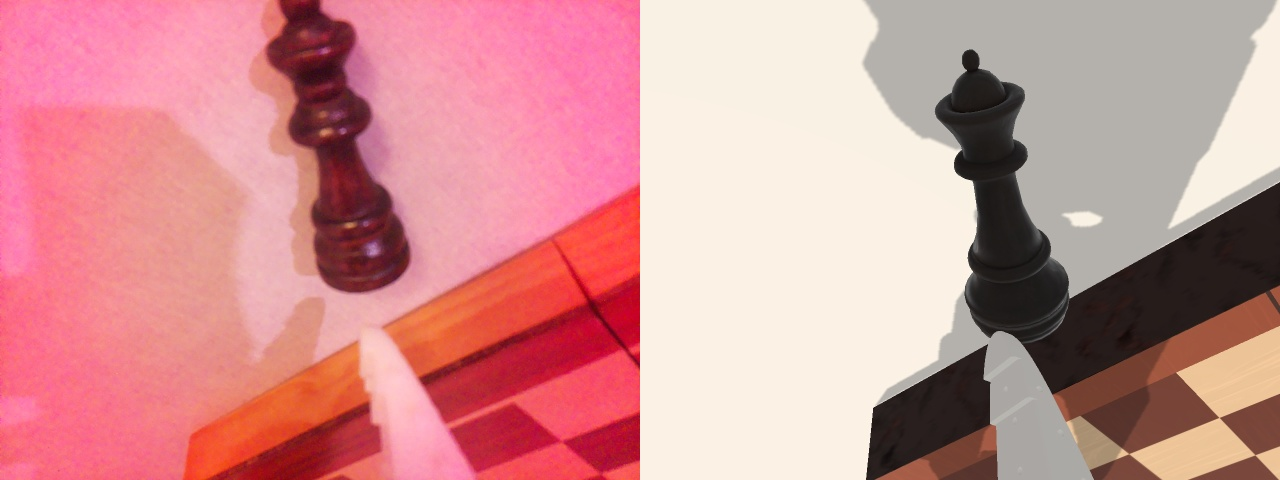
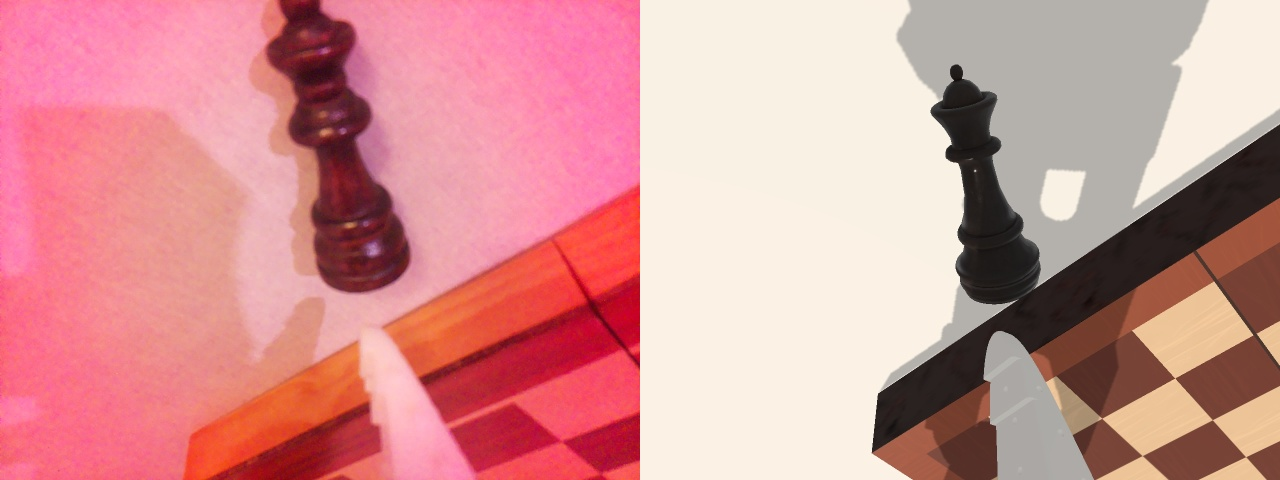
Bend so101-real's links under load instead of ramping a shoulder error
The readings now hide a bending of the shoulder and elbow links, 8°/N·m of
the torque each joint passes on to its link (gravity beyond it plus outside
contacts), on top of the offsets the camera calibration fitted. Resting on
the table unbends the arm, so B, C and Q's real readings put the jaw on the
table and near the queen's base, and lifting off from C gains far less than
the readings say. Friction does not bend the link, so a goal step at rest
still leaves the reading alone. D's free-air height stays 4 cm off: it has
about the calibration poses' torque, which FIDELITY.md explains.

Changed region(s): [[0.6562, 0.0, 1.0, 1.0], [0.6562, 0.7812, 0.7812, 1.0]]

diff --git a/examples/so101-real/servo.ts b/examples/so101-real/servo.ts
@@ -2,10 +2,12 @@
 //
 // - Readings and goals in LeRobot units: degrees (0 = middle of the calibrated range) for the arm,
 //   0..100 for the gripper, quantised to one raw step, goals clamped to the calibrated range.
-// - The readings carry a hidden, pose-dependent zero error (`Calibration`): true angle = reading +
-//   error(reading). The policy never sees true angles.
-// - P-only position control, torque = K·(goal − present) capped at the torque limit, K set by
-//   the P coefficient (16 by default, K = 7.9 N·m/rad). Gravity makes the arm sag by degrees.
+// - The readings hide the true joint angles (`Calibration`): a fixed zero error per joint, and
+//   gears and printed parts that bend under the torque passed on to the link (`load.ts`), which
+//   the encoder on the servo's output does not see. The policy never sees true angles.
+// - P-only position control on the reading, torque = K·(goal − present) capped at the torque
+//   limit, K set by the P coefficient (16 by default, K = 7.9 N·m/rad). Gravity makes the arm sag
+//   by degrees the readings show, and by more that they do not.
 // - Gear friction: Coulomb friction of 0.35 N·m on each arm joint. A joint at rest ignores goal
 //   changes smaller than that torque over K (2.5° at P=16), and where it settles, and so its
 //   load, depends on the side it came from.
@@ -51,13 +53,18 @@ export interface ServoJoint {
   friction: boolean;
 }
 
-/** The hidden map between readings and true joint angles, both in a joint order. */
+/**
+ * The hidden map between readings and true joint angles, both in a joint order, given the
+ * torques, N·m, the joints pass on to their links.
+ */
 export interface Calibration {
   /** True joint angles, radians, for readings. */
-  angles(readings: readonly number[]): number[];
+  angles(readings: readonly number[], torques: readonly number[]): number[];
   /** Readings for true joint angles. */
-  readings(angles: readonly number[]): number[];
+  readings(angles: readonly number[], torques: readonly number[]): number[];
 }
+/** How fast the bending follows the link torque, s: it also keeps the P loop through it stable. */
+const BENDING = 0.05;
 
 interface State {
   goal: number;
@@ -79,9 +86,17 @@ export class ServoBus {
   readonly events: ((message: string) => void)[] = [];
   readonly joints: readonly ServoJoint[];
   readonly calibration: Calibration;
-  constructor(joints: readonly ServoJoint[], calibration: Calibration) {
+  private readonly linkTorques: () => number[];
+  /** The link torques, N·m, as the bending has followed them. */
+  torques?: number[];
+  constructor(
+    joints: readonly ServoJoint[],
+    calibration: Calibration,
+    linkTorques: () => number[],
+  ) {
     this.joints = joints;
     this.calibration = calibration;
+    this.linkTorques = linkTorques;
     this.ros = getROS2();
     this.drives = joints.map(({ joint, torqueLimit, friction }) => {
       const drive = new JointDrive({
@@ -144,7 +159,11 @@ export class ServoBus {
   }
   beforeStep(_time: number, dt: number): void {
     const { angles } = this.measure();
-    const present = this.calibration.readings(angles);
+    const now = this.linkTorques();
+    this.torques ??= now;
+    const torques = this.torques.map((t, i) => t + (now[i]! - t) * Math.min(1, dt / BENDING));
+    this.torques = torques;
+    const present = this.calibration.readings(angles, torques);
     // On power-up the servos hold where they are, as LeRobot's connect does.
     if (!this.states.length)
       for (const reading of present)
@@ -155,9 +174,15 @@ export class ServoBus {
           torque: true,
           load: 0,
         });
-    const goals = this.calibration.angles(this.states.map((s) => s.goal));
+    // The goal as a true angle, were the link to bend as it does now: the P law on the reading.
+    const goals = this.calibration.angles(
+      this.states.map((s) => s.goal),
+      torques,
+    );
+    const base = 16 * STIFFNESS_PER_P;
     this.joints.forEach(({ torqueLimit }, i) => {
       const state = this.states[i]!;
+      const drive = this.drives[i]!;
       const k = state.p * STIFFNESS_PER_P;
       const torque = state.torque
         ? Math.max(-torqueLimit, Math.min(torqueLimit, (k * (goals[i]! - angles[i]!)) / STALL))
@@ -165,16 +190,11 @@ export class ServoBus {
       // Feetech reports the load positive while pushing towards decreasing readings (§2).
       state.load = -Math.round(1000 * torque);
       this.heat(i, dt);
-    });
-    this.drives.forEach((drive, i) => {
-      const state = this.states[i]!;
       if (!state.torque) {
         if (drive.target) drive.setTarget(undefined);
         return;
       }
-      const k = state.p * STIFFNESS_PER_P;
       // The P coefficient sets the stiffness, fixed at construction; scale the target instead.
-      const base = 16 * STIFFNESS_PER_P;
       const position = angles[i]! + (k / base) * (goals[i]! - angles[i]!);
       if (drive.target?.position !== position) drive.setTarget({ position });
     });
@@ -198,7 +218,7 @@ export class ServoBus {
     if (time - this.last < 0.02 - 1e-9) return;
     this.last = time;
     const { angles, velocities } = this.measure();
-    const readings = this.calibration.readings(angles);
+    const readings = this.calibration.readings(angles, this.torques ?? angles.map(() => 0));
     const units = this.joints.map((j) => j.unitsPerDegree);
     this.ros.publish("/follower/joint_states", "sensor_msgs/msg/JointState", {
       header: header(time, ""),

diff --git a/examples/so101-real/robot.ts b/examples/so101-real/robot.ts
@@ -27,6 +27,7 @@ import {
   ROLL_ERROR,
 } from "./calibration.ts";
 import { joints as authored, links as allLinks } from "./model.ts";
+import { linkTorques, type Link } from "./load.ts";
 import { ServoBus, type ServoJoint } from "./servo.ts";
 
 // The CAD camera mount is not the real one: the real camera sits where its calibration says.
@@ -104,6 +105,17 @@ export function arm(height: number) {
   );
   base.position.y = height + 0.003;
   base.updateMatrix();
+  // Each body's centre of mass, from its collision shapes: hull vertices, or box centres
+  // weighted by volume.
+  const shapes = new Map<RigidBody, { sum: Vector3; weight: number }>();
+  function shape(body: RigidBody, points: ArrayLike<number>, weight: number) {
+    const entry = shapes.get(body) ?? { sum: new Vector3(), weight: 0 };
+    for (let k = 0; k < points.length; k += 3) {
+      entry.sum.add(new Vector3(points[k], points[k + 1], points[k + 2]).multiplyScalar(weight));
+      entry.weight += weight;
+    }
+    shapes.set(body, entry);
+  }
   const servoJoints = new Map<string, RevoluteJoint>();
   const placed = new Set(["base_link"]);
   while (placed.size < links.length) {
@@ -181,6 +193,7 @@ export function arm(height: number) {
       );
       hull.scale(visual.scale[0], visual.scale[1], visual.scale[2]);
       hull.applyMatrix4(pose);
+      shape(body, hull.getAttribute("position").array as Float32Array, 1);
       const collider = new MeshCollider({
         approximation: "convexHull",
       }).setGeometry(hull);
@@ -199,6 +212,7 @@ export function arm(height: number) {
     const collider = new BoxCollider({ size });
     collider.position.set(...position);
     place(name).body.add(collider);
+    shape(place(name).body, position, size[0] * size[1] * size[2]);
   }
   box("gripper_link", [0.04, 0.035, 0.035], [0, 0, -0.022]);
   for (const pad of fixedPads) box("gripper_link", pad.size, pad.position);
@@ -237,6 +251,7 @@ export function arm(height: number) {
     .add(camera.position);
   board.setCollisionGroups({ membership: 4, filter: 2 });
   gripperBody.add(board);
+  shape(gripperBody, board.position.toArray(), 0.025 * 0.024 * 0.012);
   const servos: ServoJoint[] = ORDER.map((name) => ({
     name,
     joint: servoJoints.get(name)!,
@@ -246,6 +261,15 @@ export function arm(height: number) {
     unitsPerDegree: name === "gripper" ? 100 / ((GRIPPER_TRAVEL * 180) / Math.PI) : 1,
     friction: name !== "gripper",
   }));
-  const bus = new ServoBus(servos, calibration);
+  // The links beyond each joint, for the torque that bends them away from the encoder's reading.
+  const chain: Link[] = ORDER.map((name) => {
+    const body = servoJoints.get(name)!.options.body1;
+    const { sum, weight } = shapes.get(body)!;
+    return { body, mass: body.options.mass!, centre: sum.divideScalar(weight) };
+  });
+  const joints5 = ORDER.map((name) => servoJoints.get(name)!);
+  const bus = new ServoBus(servos, calibration, () =>
+    linkTorques(joints5, chain.map((_, i) => chain.slice(i)), robot),
+  );
   return { robot, bus };
 }

diff --git a/examples/so101-real/calibration.ts b/examples/so101-real/calibration.ts
@@ -33,35 +33,36 @@ export const GRIPPER_TRAVEL = 130 * deg;
 
 /**
  * Zero errors, degrees, in the order pan, lift, elbow, wrist_flex, wrist_roll: the offsets the
- * camera calibration fitted where it was valid (upper arm near vertical), true = reading + offset.
+ * camera calibration fitted where it was valid (upper arm near vertical, wrist 40–75°),
+ * model = reading + offset.
  */
-const OFFSET = [0, 4.4, -10.8, 5.2, ROLL_ERROR];
+const FITTED = [0, 4.4, -10.8, 5.2, ROLL_ERROR];
 /**
- * The part the calibration could not see: grows with the shoulder's reading from 5° to 35° and
- * stays there, lowering the extended arm by about 4 cm near the table (§5).
+ * How far each joint's link bends away from its encoder's reading, degrees per N·m of the torque
+ * it passes on to the link (`load.ts`): gear backlash and printed-plastic flex, which the encoder
+ * on the servo's output cannot see. Holding the extended arm in the air sags it by a few more
+ * degrees than in the calibration poses; resting on the table, the link sits higher than the
+ * readings suggest. Fitted to the contacts of REAL_OBSERVATIONS §5.
  */
-const EXTENDED = [0, 10, 0, 0, 0];
-const share = (lift: number) => Math.min(1, Math.max(0, (lift - 5) / 30));
+const BENDING = [0, 8, 8, 0, 0];
+/** The link torques, N·m, in the calibration poses: there the fitted offsets hold. */
+const REFERENCE = [0, -0.54, -0.42, 0, 0];
+/** Zero errors with the links unloaded: true = reading + offset − bending·torque. */
+const OFFSET = FITTED.map((f, i) => f + BENDING[i]! * REFERENCE[i]!);
 
 export const calibration: Calibration = {
-  angles(readings) {
-    const g = share(readings[1]!);
+  angles(readings, torques) {
     return readings.map((r, i) =>
       i === 5
         ? GRIPPER_CLOSED + (r / 100) * GRIPPER_TRAVEL
-        : (r + OFFSET[i]! + g * EXTENDED[i]!) * deg,
+        : (r + OFFSET[i]! - BENDING[i]! * torques[i]!) * deg,
     );
   },
-  readings(angles) {
-    // The shoulder's reading decides the error: solve for it first, by fixed-point iteration.
-    let lift = angles[1]! / deg - OFFSET[1]!;
-    for (let k = 0; k < 8; k++)
-      lift = angles[1]! / deg - OFFSET[1]! - share(lift) * EXTENDED[1]!;
-    const g = share(lift);
+  readings(angles, torques) {
     return angles.map((a, i) =>
       i === 5
         ? ((a - GRIPPER_CLOSED) / GRIPPER_TRAVEL) * 100
-        : a / deg - OFFSET[i]! - g * EXTENDED[i]!,
+        : a / deg - OFFSET[i]! + BENDING[i]! * torques[i]!,
     );
   },
 };

diff --git a/examples/so101-real/load.ts b/examples/so101-real/load.ts
@@ -1,0 +1,54 @@
+// The torque each joint passes on to its link: what holds up everything beyond it against
+// gravity and against the table, board or queen pushing on it. At rest it equals the motor's
+// torque plus the gear friction's, so it is what bends the gears and printed parts between the
+// servo's encoder and the link (see `calibration.ts`).
+//
+// Ground truth: a policy must not read this file.
+import type { RevoluteJoint, RigidBody } from "@drawcall/physics";
+import { getROS2 } from "@drawcall/robotics";
+import { Matrix4, Vector3 } from "three";
+
+const GRAVITY = new Vector3(0, -9.81, 0);
+
+export interface Link {
+  body: RigidBody;
+  mass: number;
+  /** Centre of mass in body coordinates, from its collision shapes. */
+  centre: Vector3;
+}
+
+/**
+ * For each joint, the torque about its axis, N·m, the joint exerts on its link to hold `beyond`
+ * (that joint's link and every link after it) still against gravity and outside contacts.
+ */
+export function linkTorques(
+  joints: readonly RevoluteJoint[],
+  beyond: readonly (readonly Link[])[],
+  robot: object,
+): number[] {
+  const world = getROS2().world;
+  const frame = new Matrix4();
+  const axis = new Vector3();
+  const origin = new Vector3();
+  const arm = new Vector3();
+  const point = new Vector3();
+  return joints.map((joint, i) => {
+    const parent = joint.options.body0!;
+    parent.updateWorldMatrix(true, false);
+    frame.multiplyMatrices(parent.matrixWorld, joint.options.frame0!);
+    axis.setFromMatrixColumn(frame, 2).normalize();
+    origin.setFromMatrixPosition(frame);
+    let load = 0;
+    for (const { body, mass, centre } of beyond[i]!) {
+      body.updateWorldMatrix(true, false);
+      point.copy(centre).applyMatrix4(body.matrixWorld);
+      load += arm.subVectors(point, origin).cross(GRAVITY).multiplyScalar(mass).dot(axis);
+      for (const contact of world.contacts(body)) {
+        if (contact.otherBody.parent === robot) continue;
+        const force = contact.normal.clone().multiplyScalar(contact.force);
+        load += arm.subVectors(contact.point, origin).cross(force).dot(axis);
+      }
+    }
+    return -load;
+  });
+}

diff --git a/examples/so101-real/scene.ts b/examples/so101-real/scene.ts
@@ -94,6 +94,9 @@ ros2.register({
           tiltDeg: (tilt(queenBody.quaternion) * 180) / Math.PI,
           axis: [-axis.z, -axis.x, axis.y],
         },
+        linkTorques: Object.fromEntries(
+          (bus.torques ?? []).map((t, i) => [ORDER[i]!, Math.round(t * 1000) / 1000]),
+        ),
         temperature: Object.fromEntries(
           bus.states.map((s, i) => [ORDER[i]!, Math.round(s.temperature * 10) / 10]),
         ),

diff --git a/examples/so101-real/FIDELITY.md b/examples/so101-real/FIDELITY.md
@@ -9,13 +9,19 @@ All runs use seed 0, the measured scene. Status: ✅ reproduced, ◐ partly, ✗
 
 ## How it is built (simple on purpose)
 
-- **Readings ≠ joints** (`calibration.ts`): true angle = reading + offset + share·extra, with
-  offsets (0, +4.4, −10.8, +5.2, +65)° for pan, lift, elbow, wrist_flex, roll, and extra = +10° on
-  the shoulder. The share rises linearly from 0 at a lift reading of 5° to 1 at 35°. The first
-  four offsets are the camera calibration's fit (§1), valid where the upper arm is near vertical.
-  The extra shoulder term reproduces the §5 near-table error. The +65° roll offset is invisible to
-  a roll-0 camera calibration (LeRobot's roll zero is the middle of a full turn, so arbitrary). It
-  puts the jaws where the real photos show them.
+- **Readings ≠ joints** (`calibration.ts`, `load.ts`): true angle = reading + offset − bending·τ,
+  where τ is the torque the joint passes on to its link (gravity on everything beyond it plus
+  contacts with the table, board or queen; at rest that is motor plus gear-friction torque). The
+  bending, 8°/N·m on shoulder_lift and elbow_flex, stands for gear backlash and printed-plastic
+  flex between the servo's output encoder and the link. The offsets are (0, +4.4, −10.8, +5.2,
+  +65)° for pan, lift, elbow, wrist_flex, roll at the link torques of the calibration poses
+  (lift −0.54, elbow −0.42 N·m), where the camera calibration fitted them (§1). Holding the arm
+  in the air bends it a little more than there. Resting it on the table unbends it: the link sits
+  higher than its readings suggest, and pressing harder moves the readings without moving the
+  link. Friction does not bend the link, so a 3° goal step at rest changes the load but not the
+  reading (§2). The +65° roll offset is invisible to a roll-0 camera calibration (LeRobot's roll
+  zero is the middle of a full turn, so arbitrary). It puts the jaws where the real photos show
+  them.
 - **Servos** (`servo.ts`): P-only, torque = K(goal − present) capped at stall (2.94 N·m; gripper
   50 %), K = 7.9 N·m/rad at P=16 (47 load units/°). Gear friction: MuJoCo joint friction
   (Coulomb) of 0.35 N·m on the arm joints, §2's ±120 load units of hysteresis; a joint at rest
@@ -44,7 +50,7 @@ All runs use seed 0, the measured scene. Status: ✅ reproduced, ◐ partly, ✗
 | Intrinsics 1280×960, f = 1061, centred | ✅ | `robot.ts`; CameraInfo k = [1061, 0, 640, 0, 1061, 480] |
 | Calibrated mount, jaws bottom-centre, fixed tip ≈ (710–735, 650–670) px | ✅ | `cmp-01-wrist40.jpg`, `cmp-03-pan-30.jpg`: black jaw left of white, as in the real images; projected fixed tip ≈ (735, 670) |
 | Views in the calibration region | ✅ | `cmp-03-pan-30.jpg`: board corner within ≈40 px; `cmp-01-wrist40.jpg` board rows within ≈40 px |
-| Views near the table (§5 poses) | ◐ | `cmp-26-view.jpg`, `cmp-30-sA/sB.jpg`, `cmp-20-pre.jpg`: same content and layout; queen within 30–110 px, board edge 50–175 px off (≈1–2 cm on the table); `fit.txt` |
+| Views near the table (§5 poses) | ◐ | `cmp-26-view.jpg`, `cmp-30-sA/sB.jpg`, `cmp-20-pre.jpg`: same content and layout, but the sim camera sits higher than the real one: the real arm hangs ≈3.5° of shoulder lower in these free-air poses than the calibrated model says (fitting the photos alone, `fit.txt`), which the bending does not produce (see D below) |
 | Calibration only valid at roll ±20° (§6.7) | ◐ | The roll offset makes any roll-0 calibration wrong about where the jaws are; views at other rolls are off by about as much as at roll 0 (see the previous row), so the solver's own calibration will degrade there. Not separately modelled. |
 | Magenta cast, libcamera | ✗ skipped | Not relevant to the task |
 
@@ -56,10 +62,10 @@ P=16. *Reached*: goals nudged until the readings match, like the real sag correc
 
 | Event | Real | Sim | Status |
 | --- | --- | --- | --- |
-| B (−46.5, 53.3, −49.0, 83.2, −64.7) | fixed jaw on table, model says −0.3 cm | plain: jaw on table, blocked at lift 41.2 (load −565), peak 15.1 N; reached: on table, lift 44.4, the correction drives the shoulder to −1000, peak 44.9 N | ✅ |
-| C (−48.7, 48.8, −44.7, 83.0, −71.7) | on table again, model +0.6 | plain: on table at lift 38.4 (load −487), peak 15.1 N; reached: on table, peak 23.7 N | ✅ |
-| D (−48.7, 34.8, −36.0, 83.2, −71.7), "up 4 cm" from C | ≈0.5 cm above table, model +4.5 | reached (34.6, −36.0, 82.7): **0.73 cm**; plain from C: stays on the table (sag + friction) | ✅ |
-| Descent at (−44.8, 37.5, −31.4, 82.5, −62.5) | jaw apparently resting on the queen's base | jaw on the table beside the base; reached: brushes the queen for 0.06 s at 2.7 N | ✗ (queen pose or jaw shape off by ~1 cm) |
+| B (−46.5, 53.3, −49.0, 83.2, −64.7) | fixed jaw on table at these readings; model −0.3 cm | reached: jaw on table (0.04 cm) at readings (53.4, −49.3); plain (P=16 sag): stops at lift 51.0, elbow −46.3, jaw 2.8 cm up | ✅ |
+| C (−48.7, 48.8, −44.7, 83.0, −71.7) | on table again; model +0.6 | reached: 0.54 cm at readings (48.8, −44.8); plain: on the table at (50.1, −39.7) | ✅ |
+| D (−48.7, 34.8, −36.0, 83.2, −71.7) after "up 4 cm" from C | ≈0.5 cm above the table (by eye); model +4.5; the commanded 3.9 cm lift was really 0.5–1 cm | plain from C (the real sequence): readings stop at (42.1, −36.2) under sag and friction, jaw **1.4 cm** above the table; at D's readings exactly (reached): **4.45 cm** | ◐ the lift from C comes out as small as on the real arm, but D's readings themselves leave the jaw 4 cm higher than observed |
+| Descent at (−44.8, 37.5, −31.4, 82.5, −62.5) | jaw resting on the lying queen's base (≈2.9 cm) | reached: jaw 2.26 cm above the table at (37.4, −31.5); the measured queen pose puts its base beside the jaw, not under it | ◐ height right, contact not |
 | Early test (0, −30.7, 93.4, 0, 0) | gripper pressed into table | elbow goal clamped to the calibrated 86.8°; tip 3.5 cm above table | ✗ (a reading beyond the calibrated range; unclear on hardware) |
 | Light contacts, low forces; load misses them | yes | every touch is logged on `/sim/audit` with links, duration, servo loads and its peak contact force (`world.contacts`); metrics `maxForce_table`, `_chessboard`, `_queen`. Plain touches 15 N, sag-corrected ones 24–45 N; the real forces were not measured | ✅ |
 | Contact force = weight at rest | — | queen standing on the table: 0.323 N = m·g (32.9 g), error 0 % (`weight.ts`) | ✅ |
@@ -72,12 +78,12 @@ the shoulder settled coming up from below, as the real holding load of 320–336
 
 | Item | Real | Sim | Status |
 | --- | --- | --- | --- |
-| Holding sag, extended pose, P=16 | lift −6.8° at load 320 | lift −5.3° at load 335, elbow −4.8° | ✅ |
-| Holding load by approach direction | 104…344 at an identical pose | 93 from above, 335 from below | ✅ |
-| 3° down from holding: no motion | load 336 → 212, no motion | no motion, load 335 → 148 | ✅ |
-| Larger downward move: unload, then sudden drop | yes | the next 3°: load 148 → −35, then the arm drops 2.3° within 0.3 s | ✅ |
-| Interpolating from present position | load +320 → −168, arm drops | from a low-load hold: load 100 → 17, arm drops 1.5° | ✅ |
-| Free-air lag at 4°/s | ≤ 12 raw (1°) descending, P=32 + integral nudges | descending: 0.8–1.2° at P=16, ≤ 0.4° at P=32; rising against gravity and friction: 6–7° at P=16, ≈3° at P=32; no nudges | ✅ |
+| Holding sag, extended pose, P=16 | lift −6.8° at load 320 | lift −7.1° at load 331, elbow −4.9° (readings; the link sags further, unseen) | ✅ |
+| Holding load by approach direction | 104…344 at an identical pose | 87 from above, 331 from below | ✅ |
+| 3° down from holding: no motion | load 336 → 212, no motion | no motion, reading unchanged, load 331 → 191 | ✅ |
+| Larger downward move: unload, then drop | yes | the next 3°: load 191 → 55, then the arm drops 0.9° within 0.3 s | ✅ |
+| Interpolating from present position | load +320 → −168, arm drops | from a low-load hold: load 95 → 20, arm drops 1.9° | ✅ |
+| Free-air lag at 4°/s | ≤ 12 raw (1°) descending, P=32 + integral nudges | descending: 1.4–1.7° at P=16, 0.5–0.7° at P=32; rising against gravity and friction: ≈7.4° at P=16, ≈3.5° at P=32; no nudges | ✅ |
 | P=32 halves the holding offset | yes | yes (stiffness ∝ P) | ✅ |
 | Overheat → torque off → arm drops | after ≈1 h of holding at 300–360 | model: 58 min at load 330; others ≤ 35 °C at load ≤ 150. Run: pressing into the table at 1000 trips in 140 s, torque off, arm drops 1.8° onto the table | ✅ |
 | Heating while paused between turns | (operator thinking time) | a 32 s pause holding at load 1000: 31 → 41 °C | ✅ |
@@ -90,7 +96,7 @@ the shoulder settled coming up from below, as the real holding load of 320–336
 | 1. Weak grip, piece slides out | ◐ | Low friction (0.35), gripper torque cap 50 %, squeeze load matches. In `grip.py` (standing queen at the real spot, `cmp-grip.jpg`) the lift came up empty rather than lifting and then slipping. |
 | 2. Tool-down unreachable far out (wrist ±86) | ✅ | Goals clamped to the calibrated ranges; the grip test's best pose at 32 cm radius tilts the tool 10–20° |
 | 3. Open fixed jaw lands on the piece | ✅ | Real jaw geometry and the moving jaw's 130° travel; in the grip test the jaw landed on the queen (audit: queen contact with load −1000) |
-| 4. Near-table kinematic error | ✅ | §5 rows B, C, D |
+| 4. Near-table kinematic error | ◐ | §5: on the table the readings match the real ones; pressing moves the readings, not the link; lifting off the table gains less than the readings say. The free-air error near the table (D, the near-table photos) is smaller in the sim. |
 | 5. Sag + friction dead band, jerky descents | ✅ | §2 rows |
 | 6. Overheating, sudden drop | ✅ | §2 last rows |
 | 7. Camera model valid only near calibration poses | ◐ | See §3 |
@@ -99,3 +105,17 @@ the shoulder settled coming up from below, as the real holding load of 320–336
 
 Colour cast; load noise and the exact hysteresis shape; the real v47 gripper and camera mount
 geometry (CAD gripper used, camera board as a 25×24×12 mm box); queen mass beyond "tens of grams".
+
+## Open: D against B, C and the calibration
+
+D's 4 cm error was observed in free air, holding the arm's weight. The calibration poses are also
+in free air, and in the sim the shoulder and elbow carry about the same torque in both (lift
+−0.54 vs −0.6…−0.67 N·m, elbow −0.42 vs −0.35). Any bending driven by that torque therefore moves
+D by about as much as it moves the calibration poses, where the fitted offsets have to hold.
+Bending stiff enough to lower D by 4 cm relative to them (≈60–90°/N·m) would move the readings by
+degrees whenever the queen is picked up or the jaw brushes the table. So the bending reproduces
+the contacts (B, C, Q) and the small lift-off from C, but not D's absolute height. The near-table
+free-air photos agree with D in direction (the real arm hangs ≈3.5° of shoulder lower than the
+model there). Something pose-dependent in free air remains unexplained. It could be the earlier
+lift-dependent shoulder term (`git show 9d9109a:examples/so101-real/calibration.ts`) at about
+3.5–10°, at the price of B, C and Q. A measured contact at lift ≈35° in free air would settle it.
